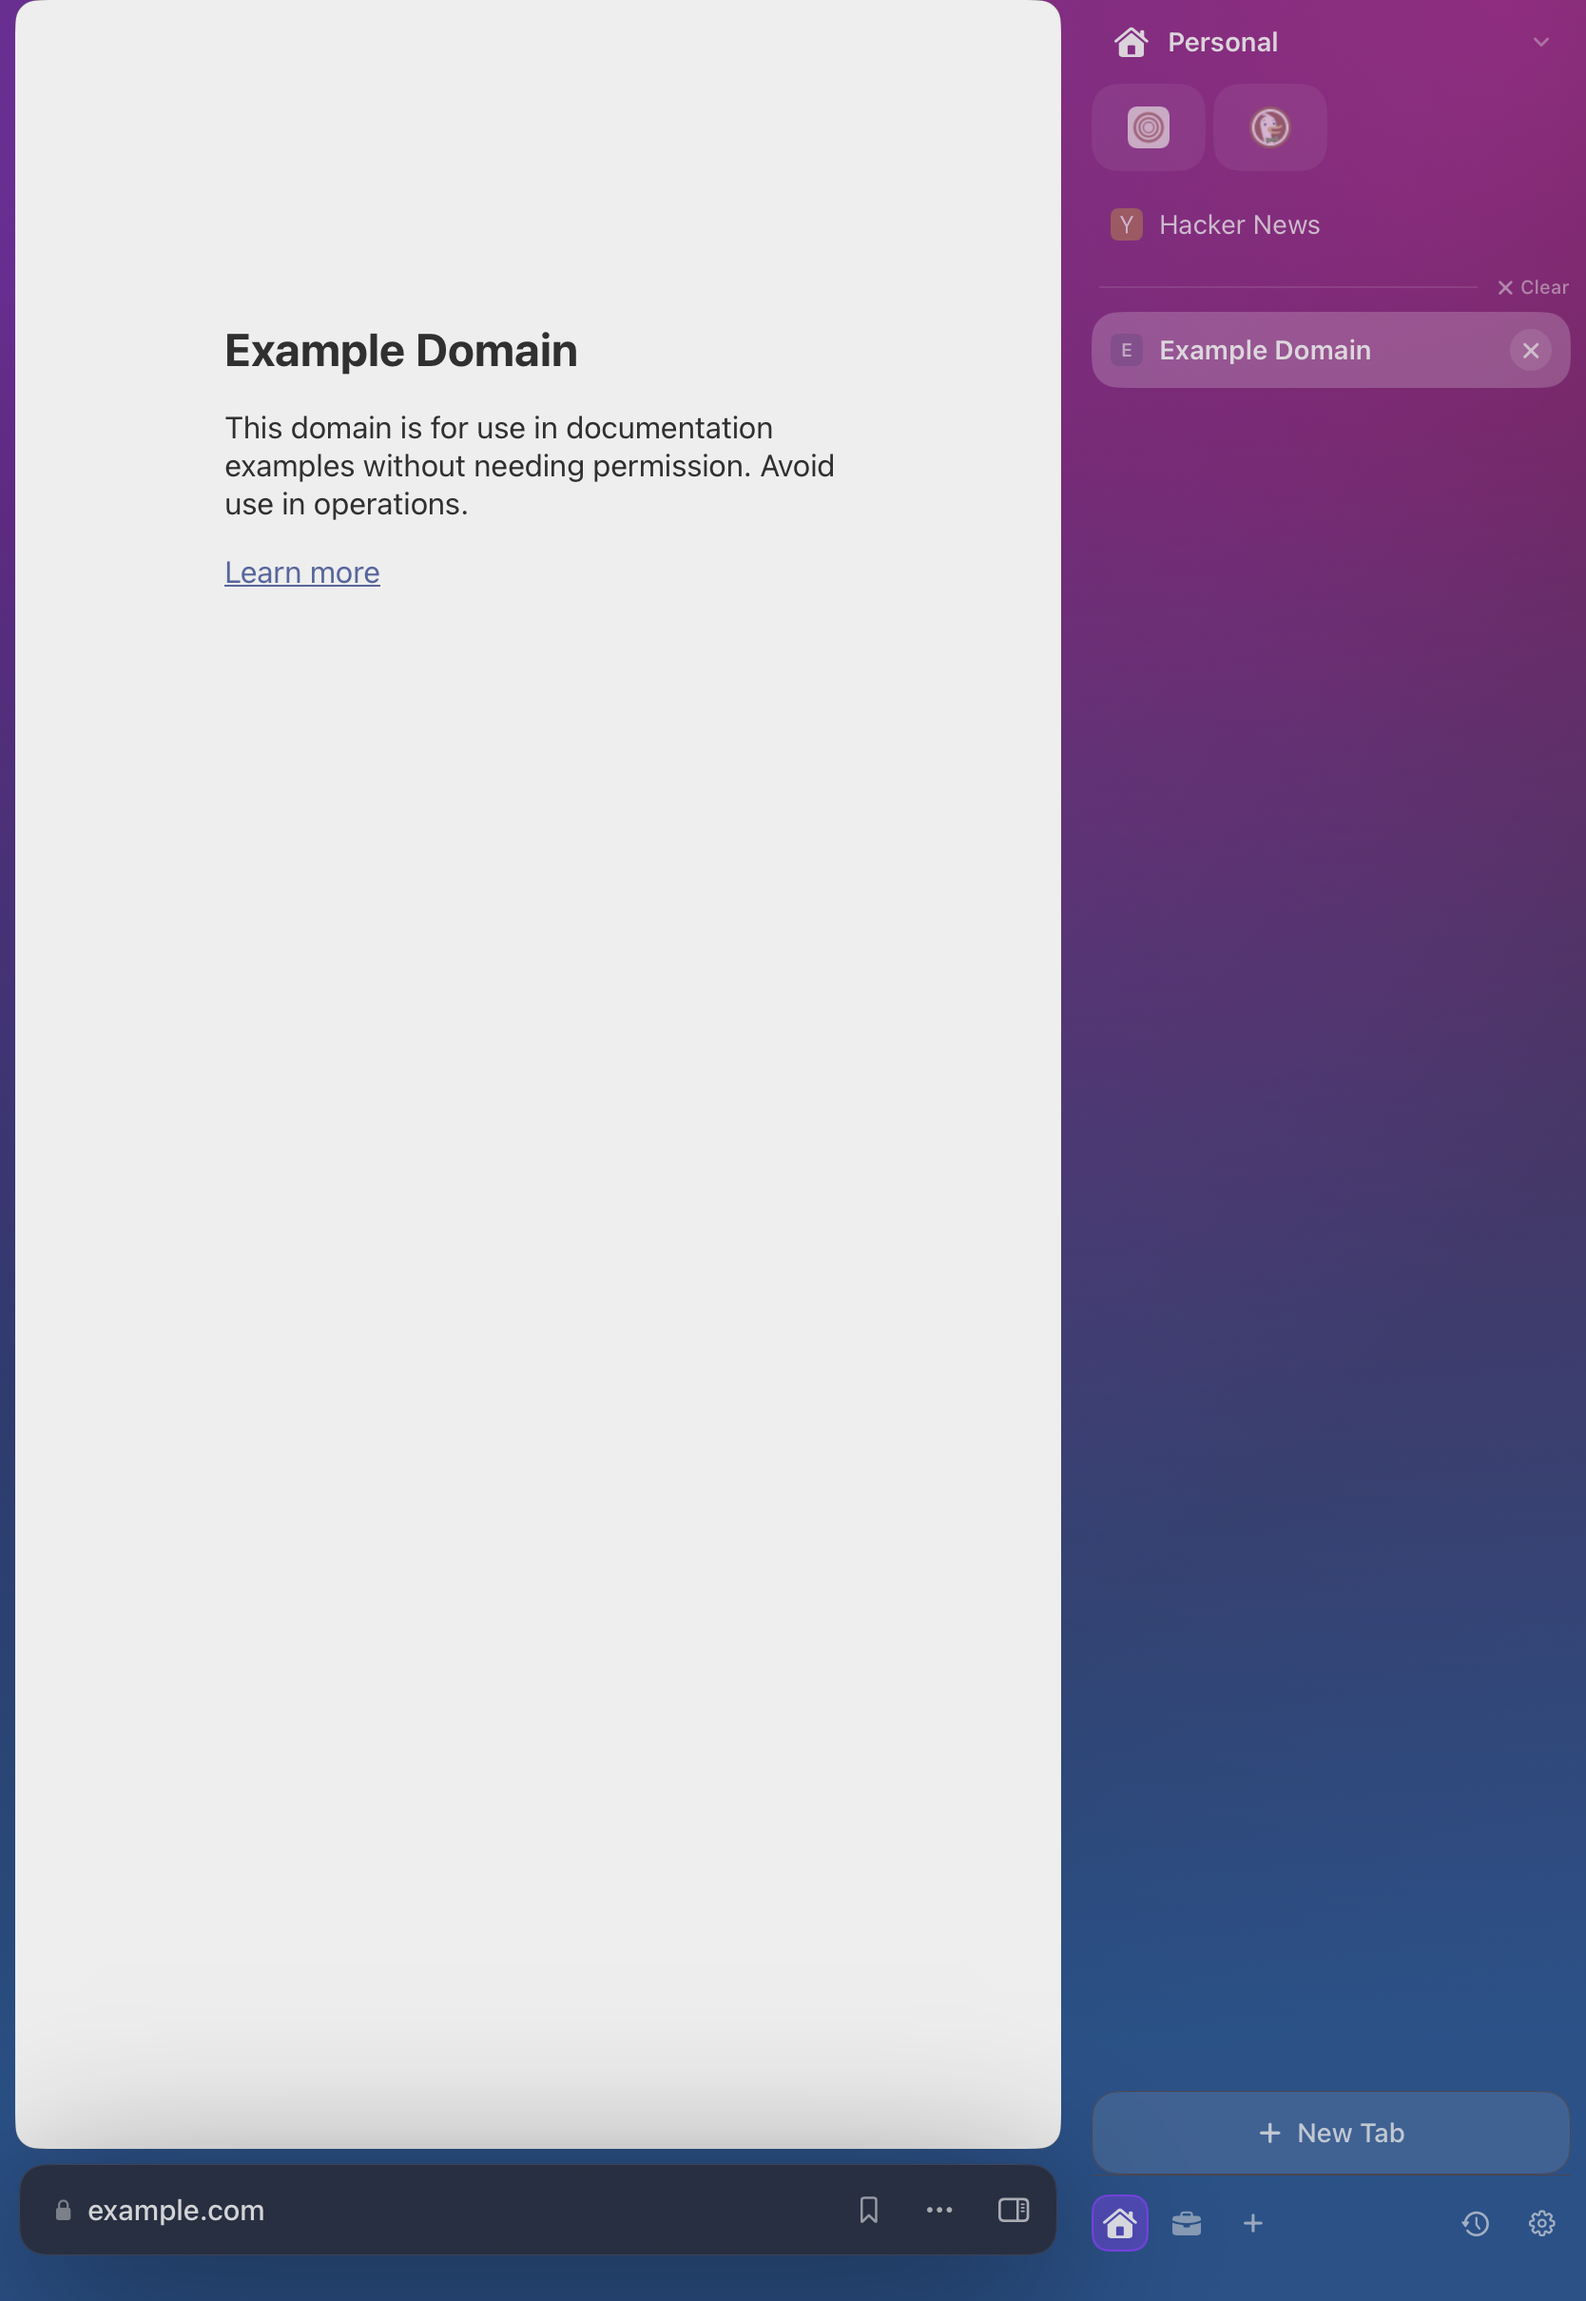
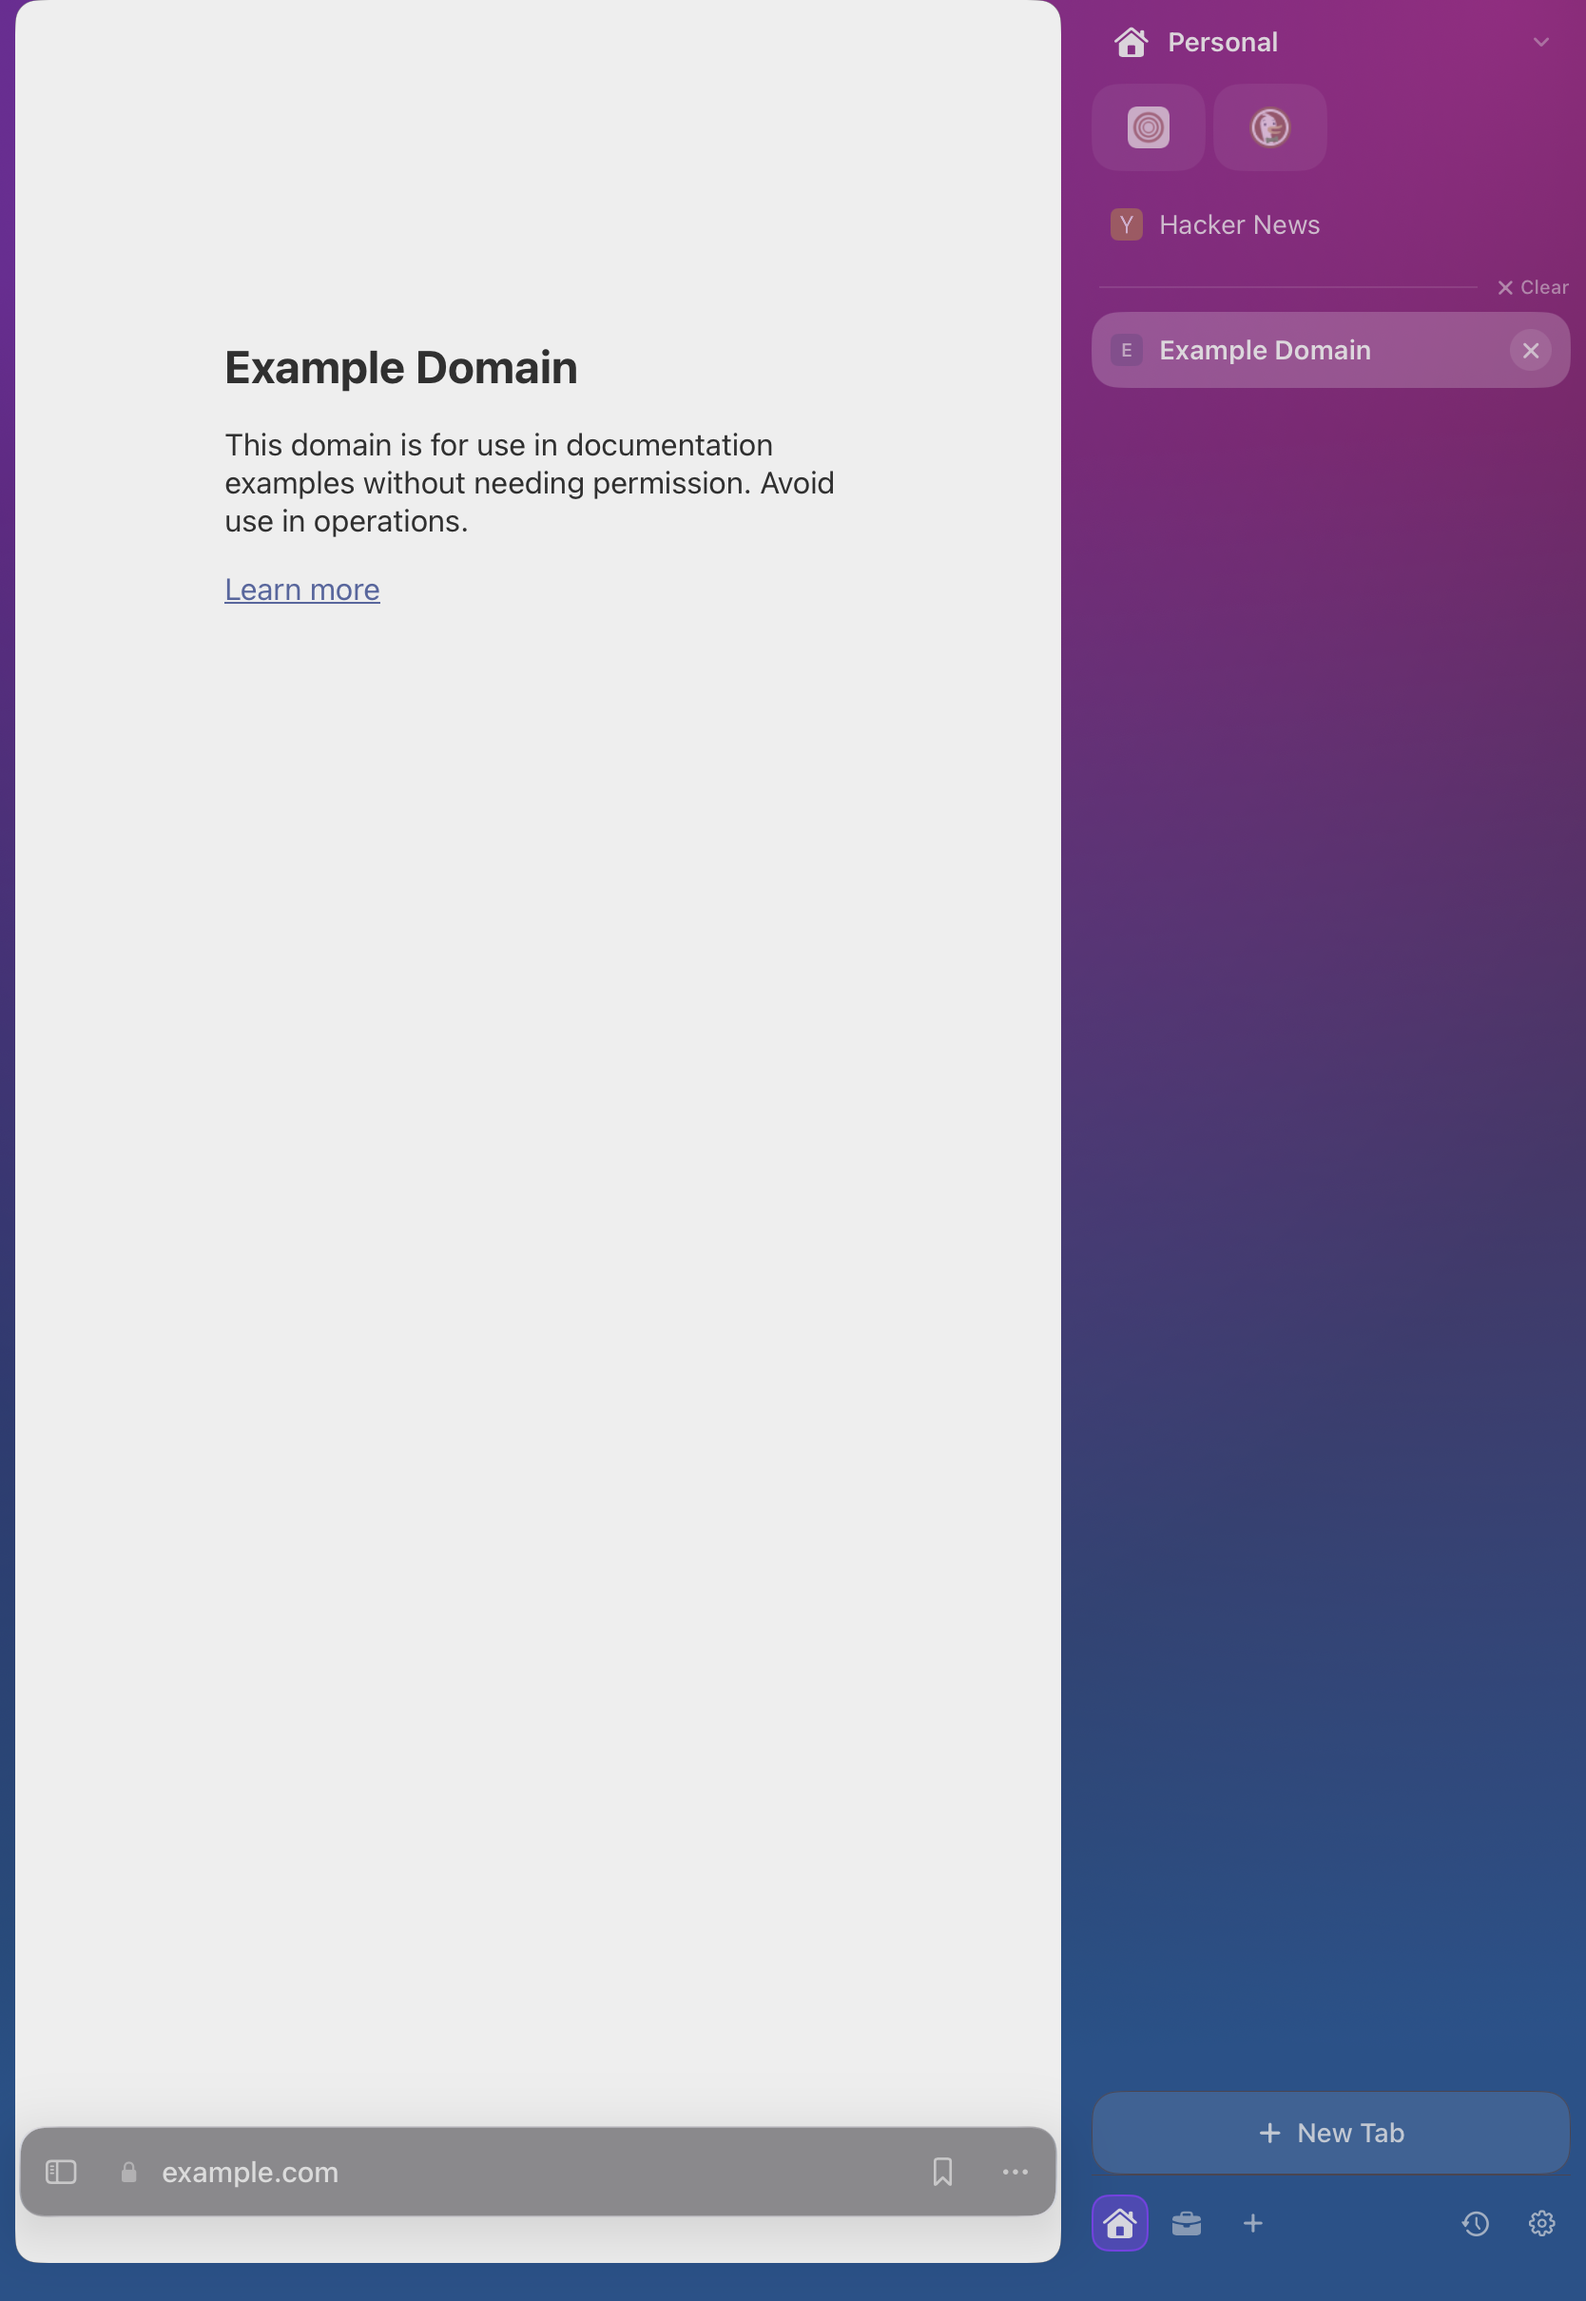
experimental: settle #008A8 after the rebase — bar-gesture mirroring, a stale test selector, regenerated screenshots (#008A8, #00896)
Rebasing the sidebar-edge feature onto #00896's customisable bar needed
real integration, not just keeping both sides:

- BarSwipeGesture gained the customisable-bar entry point
  action(translation:velocity:layout:sidebarEdge:), which mirrors only
  the gesture slot actually bound to `.sidebar` when the edge is
  trailing — a customised next/previous-tab pair on swipeLeft/swipeRight
  is left exactly where the user put it. The pre-#00896
  action(...isSidebarOpen:mapping:) stays for the (edge, gesture
  direction) -> action unit tests, which test the pure mapping directly.
- OmniboxPill's button layout is fully slot-driven now, so #008A8 does
  not fight it: a `.sidebar` slot renders wherever leftSlots/rightSlots
  put it (the Customize bar editor already lets it go on either side).
  Only the `ios` branch, which has no slot system, force-mirrors a
  hard-wired button.
- ScreenshotTests.sidebarButton was still querying the pre-#00896 label
  ("Toggle sidebar"); the shipped "zen" preset's sidebar slot carries
  "Tabs" and the identifier barSlot-sidebar instead. Pre-existing gap
  (confirmed against the pre-rebase experimental tip), not a regression
  — fixed since it blocked this ticket's own screenshot test.
- Screenshots regenerated against the merged bar; the iPad shot is still
  seeded via a direct session snapshot rather than driven through
  Settings, for the same pre-existing reason noted in the `ios` commit.
[…]

Changed region(s): [[0.0, 0.8988, 0.6859, 1.0], [0.1247, 0.124, 0.53, 0.2789]]

diff --git a/ios/Tests/ZenUITests/ScreenshotTests.swift b/ios/Tests/ZenUITests/ScreenshotTests.swift
@@ -75,7 +75,11 @@ final class ScreenshotTests: XCTestCase {
 
     // MARK: Elements
 
-    private var sidebarButton: XCUIElement { app.buttons["Toggle sidebar"] }
+    // "Toggle sidebar" was the hard-wired ios-branch button's label; since
+    // #00896 the bar is slot-driven and the shipped "zen" preset's sidebar
+    // slot carries the identifier below and the label "Tabs" instead. This
+    // was already stale on experimental before #008A8 touched this file.
+    private var sidebarButton: XCUIElement { app.buttons["barSlot-sidebar"] }
     private var addressBar: XCUIElement { app.buttons["Address and search"] }
 
     private func openSidebar() {

diff --git a/ios/README.md b/ios/README.md
@@ -128,7 +128,7 @@ cookies outright, scoped to third-party loads so first-party logins survive.
 | 1 | Space swipe to switch | Done | Horizontal drag on the sidebar translates the list live, then springs, as `ZenSpacesSwipe` does. |
 | 1 | Space switcher strip | Done | Along the sidebar bottom, each chip previewing its own accent. |
 | 2 | **Vertical tab sidebar** | Done | Slide-in drawer on iPhone (edge swipe or toolbar button), persistent on iPad. |
-| 2 | Sidebar edge (#008A8) | Done | Settings → Sidebar position: Left / Right, as Zen desktop's own `sidebar.position` allows. Moves the drawer/persistent sidebar and its edge-swipe reveal, mirrors the URL bar's swipe-to-open gesture and moves the toolbar button to match. Animated, with a haptic on toggle. |
+| 2 | Sidebar edge (#008A8) | Done | Settings → Sidebar position: Left / Right, as Zen desktop's own `sidebar.position` allows. Moves the drawer/persistent sidebar and its edge-swipe reveal, and mirrors whichever bar gesture slot is bound to `.sidebar`. Animated, with a haptic on toggle. Where the sidebar *button* sits is the Customize bar editor's call — #00896's slot system already lets it go on either side, so this does not fight that; it is a hard-wired mirror only where there is no slot system, i.e. the `ios` branch. |
 | 2 | Swipe to close a tab row | Done | Pull left past the threshold, with a haptic at the threshold itself. |
 | 2 | Swipe the URL bar to the sidebar | Done | Right or up on the bar opens the drawer, left or down closes it (#0089F). The direction → action map is a table, so the planned URL-bar customisation can reassign it. |
 | 2 | New Tab strip | Done | Full-width, 44pt, pinned below the tab list rather than scrolling away inside it (#0089F). |
